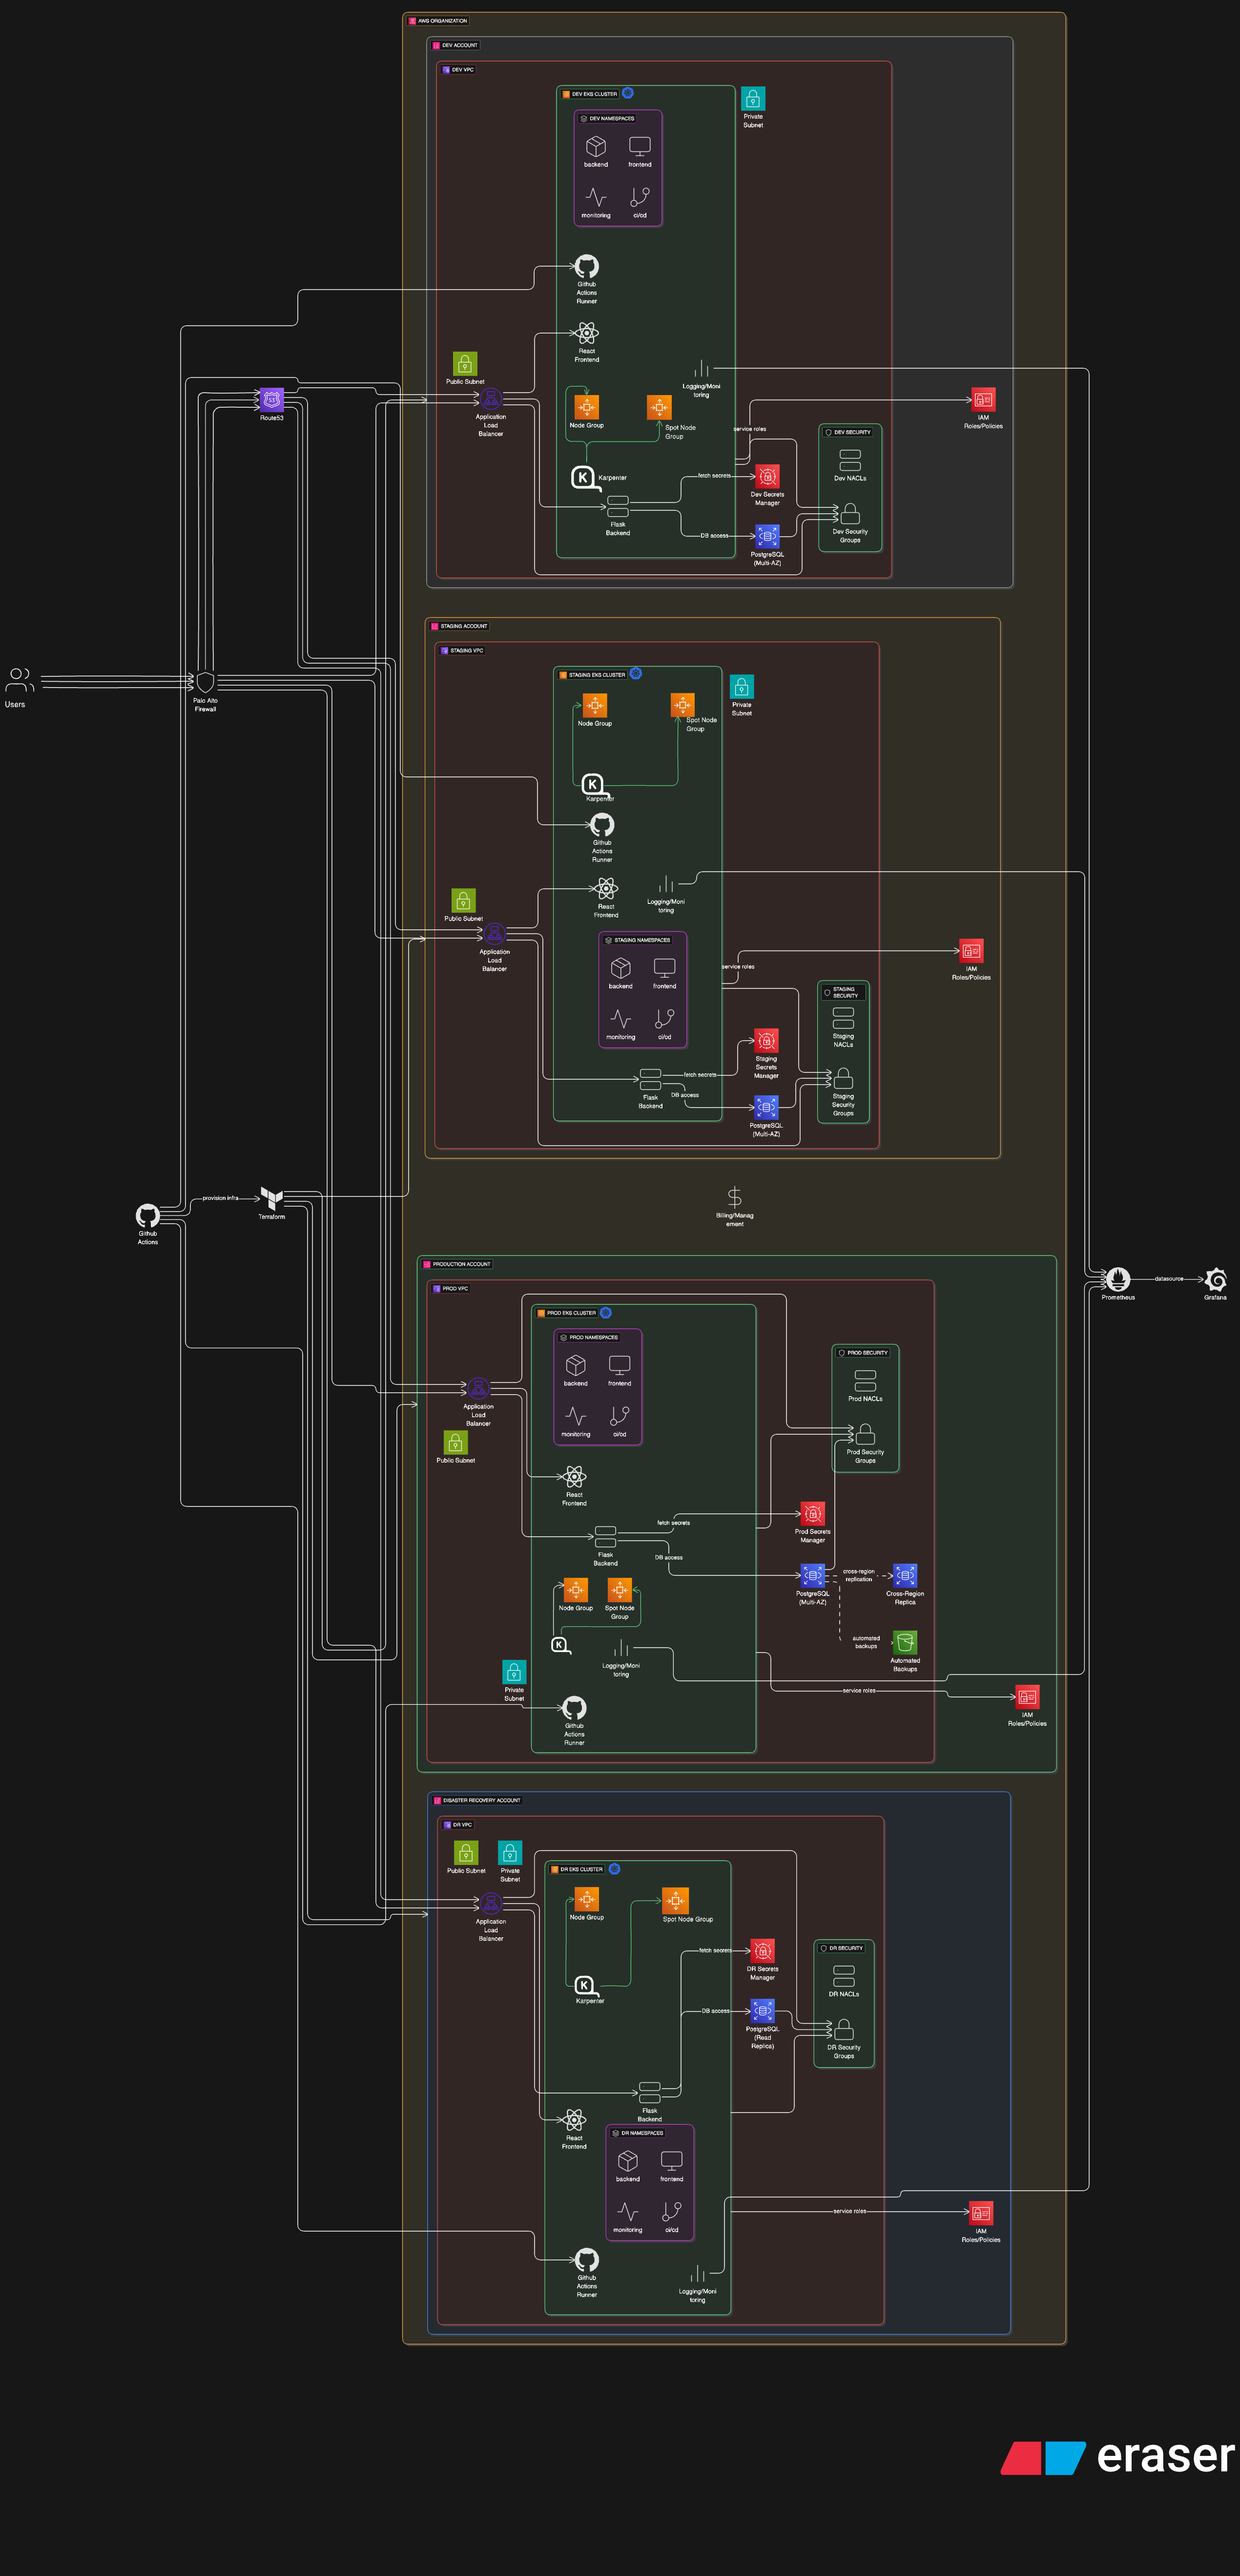
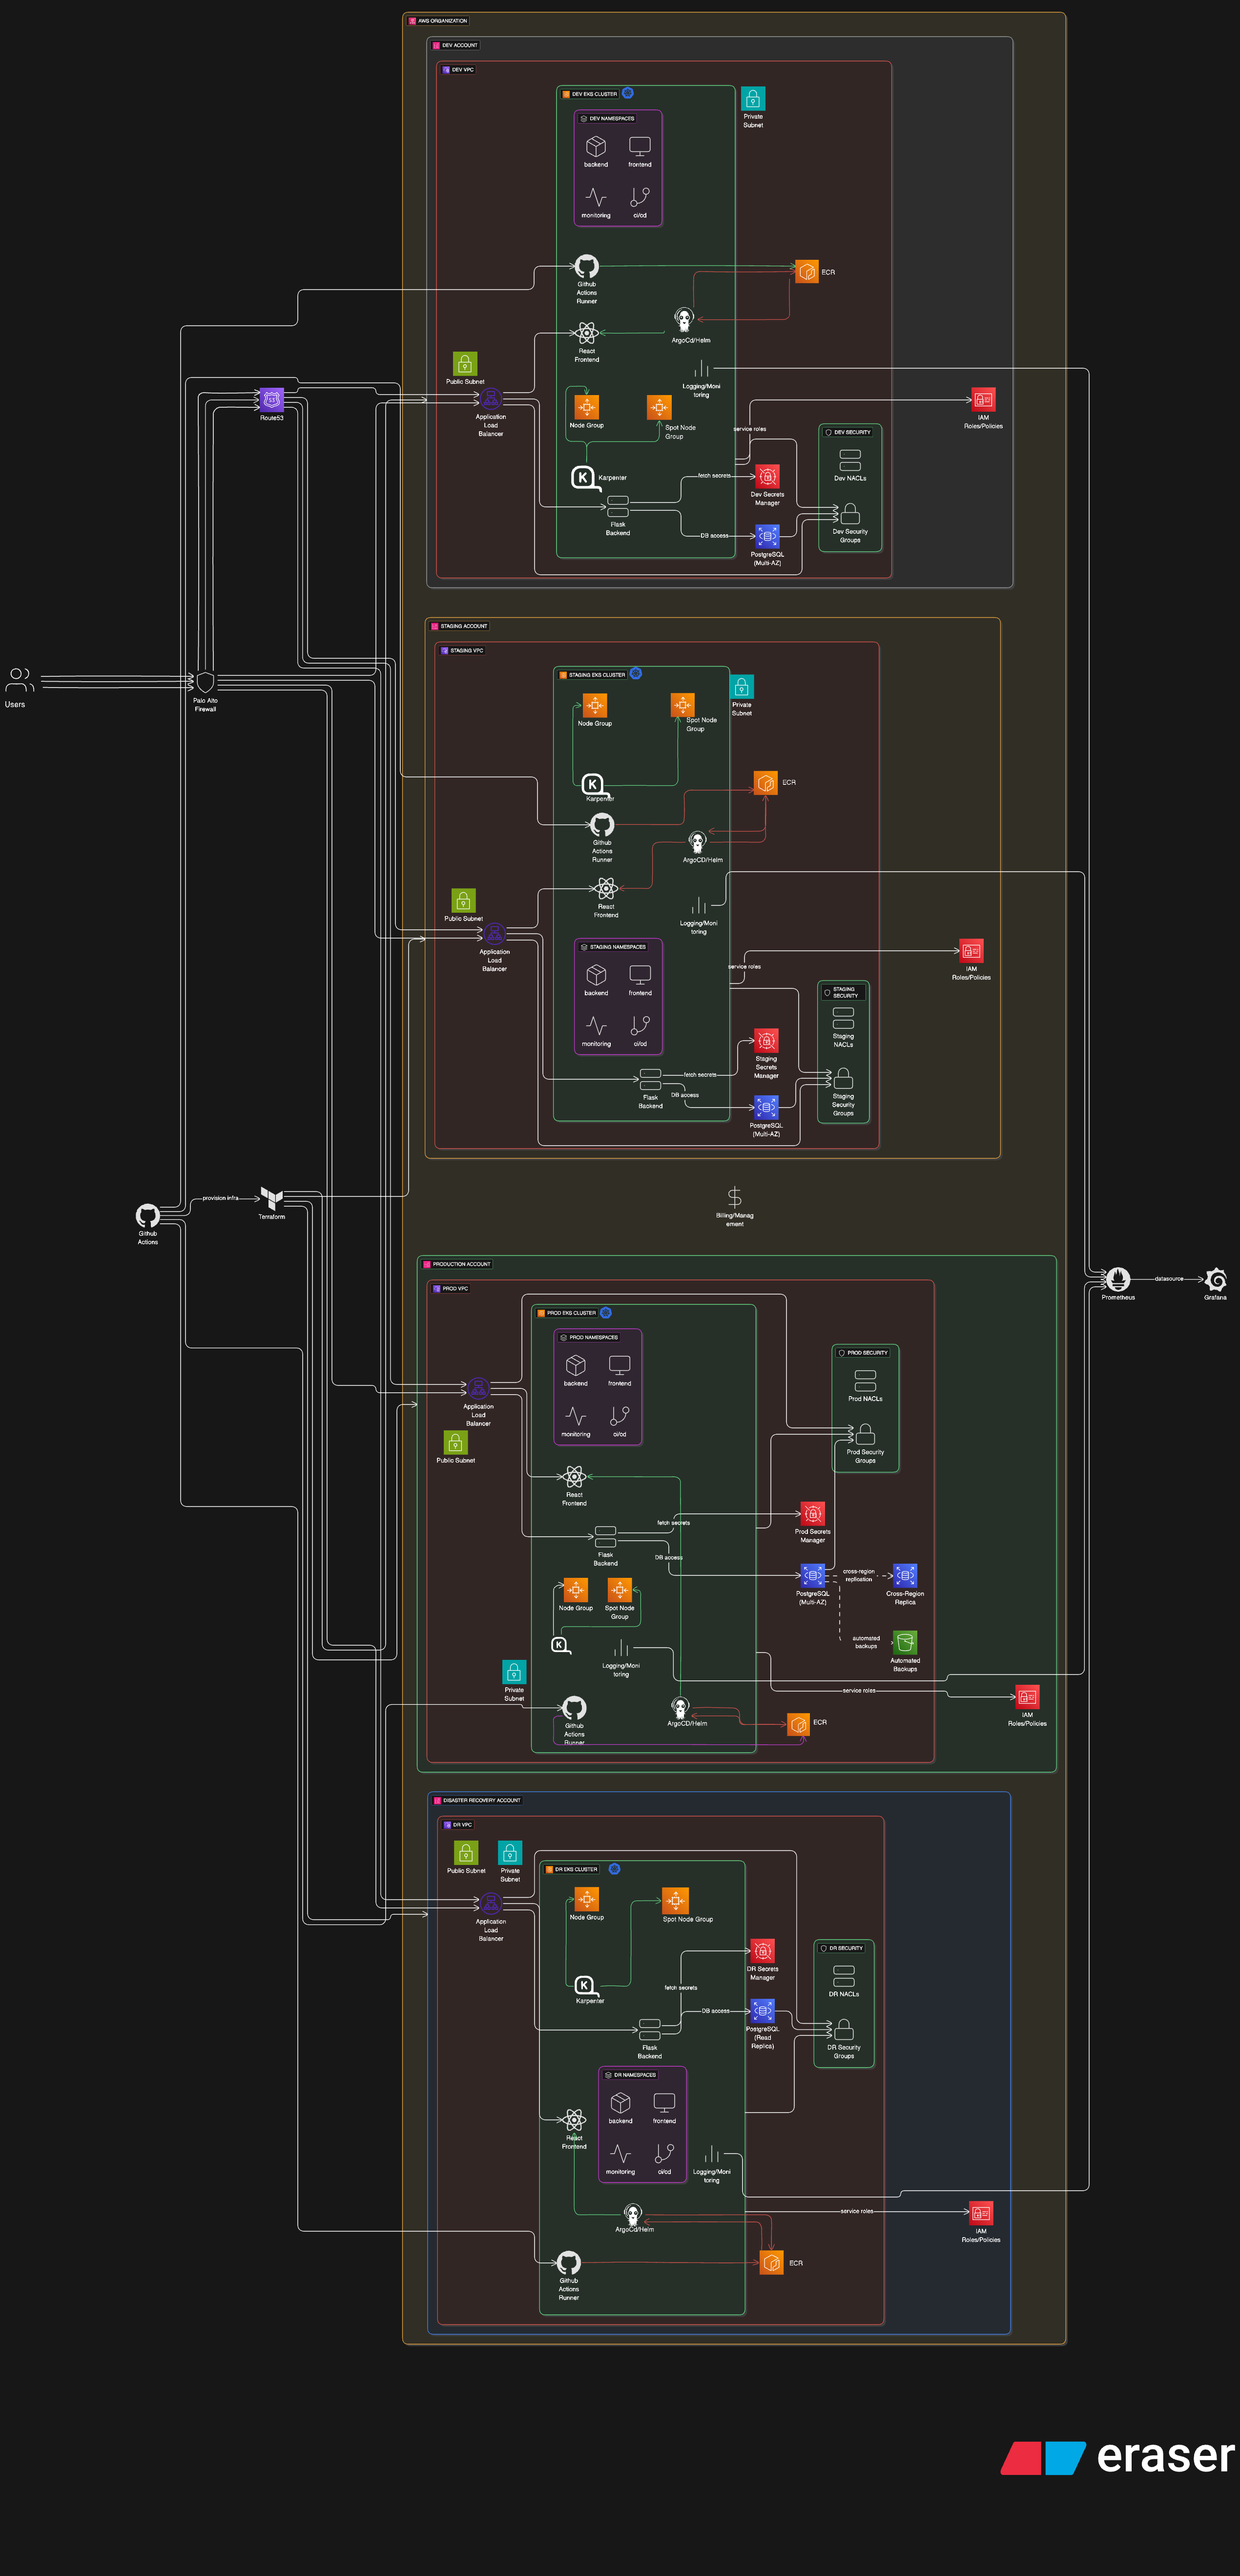
Added cloud architecture diagram for Innovate Inc.

diff --git a/README.md b/README.md
@@ -1,2 +1,87 @@
 # Innovate Inc Proposed Cloud Architecture
 
+1) The front door: users → DNS → WAF/Edge → Public ALB
+
+A customer types app.yourco.com.
+Route 53 answers with where to go. (Optionally) CloudFront + WAF sit in front to cache static bits and swat away junk traffic and obvious attacks.
+
+Traffic lands on a public ALB in the target environment (dev/test/stage/prod). The ALB terminates TLS with ACM certs and routes by host/path to the right app.
+
+Why this exists: a clean, global entry that’s secure, fast, and easy to route per environment and per service.
+
+2) Inside the fence: per-environment VPCs
+
+Each environment has its own VPC with public subnets (for ALBs/NAT) and private subnets (for EKS nodes, databases, etc.). An Internet Gateway handles inbound for public things; NAT Gateways allow private workloads to fetch images or talk to SaaS without being exposed.
+
+Why this exists: hard isolation (blast radius control) and predictable networking/Security Groups per env.
+
+3) The app neighborhood: EKS cluster
+
+In each VPC sits an EKS cluster:
+A tiny managed node group (on-demand x86) runs the “plumbing”: the AWS Load Balancer Controller, CSI drivers, Argo CD/Flux, Kyverno, metrics agents, etc. Karpenter is your “smart landlord” for app capacity. When pods can’t schedule, it spins up the best-fit EC2 nodes on the fly:
+
+You’ve got NodePools for amd64 (x86) and arm64 (Graviton). You can use Spot for price/perf or On-Demand for critical workloads.
+
+It listens to EventBridge → SQS for spot interruption warnings and gracefully replaces nodes. Consolidation and expiration keep nodes right-sized and fresh.
+
+Why this exists: fast scale, cheaper nodes (hello Graviton + Spot), and zero YAML fiddling for developers.
+
+4) Traffic inside the cluster: Ingress → Service → Pods
+
+The AWS Load Balancer Controller creates ALBs from Kubernetes Ingress objects. Requests go ALB → Ingress → Service → your pods. If you also run an internal ALB, that’s for backstage UIs or service-to-service traffic that shouldn’t be public.
+
+Why this exists: simple L7 routing and TLS offload with native AWS bits your team already knows.
+
+5) State and messages: the data cul-de-sac
+
+Your apps talk to:
+- RDS/Aurora (Postgres in private subnets for transactional data.
+- ElastiCache/Redis for hot keys, sessions, rate limits, low-latency reads.
+- S3 buckets for uploads, artifacts, and backups (with lifecycle rules).
+- OpenSearch (or Loki/CloudWatch Logs) for log search and ops forensics.
+
+Access from pods is granted via IRSA/Pod Identity (role per service account), not static keys.
+
+Why this exists: clean separation of concerns—fast reads in cache, durable data in RDS, cheap storage in S3, resilient async with queues.
+
+6) How code and Infra gets here: CI/CD & GitOps
+
+Infra is done with Terraform running through a github actions pipeline.
+
+Your CI (GitHub Actions) builds, tests, scans, and pushes images to ECR.
+
+Argo CD Git (Helm) and syncs clusters. Rollbacks are just “git revert.”
+
+Why this exists: predictable, auditable releases; no humans hand-applying manifests on Fridays.
+
+7) Seeing and knowing: observability
+
+Logs: agents (Loki) ship to Grafana.
+
+Metrics: Prometheus scrapes; Grafana dashboards; autoscaling signals come from metrics or Karpenter’s bin-packing view.
+
+Traces: OTEL/X-Ray/Tempo/Datadog (depending on your stack).
+
+Alarms: CloudWatch + SNS (or PagerDuty) wake the right humans.
+
+Why this exists: you can’t run what you can’t see. This is your early-warning system and your root-cause flashlight.
+
+8) Guardrails: security & access
+
+- Palo Alto Firewall serves as the main gatekeeper, scrutinizing all incoming traffic
+- Security Groups fence off who can talk to whom.
+- IAM + IRSA scope AWS permissions to each workload.
+- Secrets Manager/SSM store secrets; no secrets in images or Git.
+- SSM Session Manager replaces old SSH bastions—auditable, ephemeral access.
+
+Why this exists: default-deny posture without crushing developer velocity.
+
+9) Insurance: backups & Disaster Recover
+
+- Automated DB snapshots and/or AWS Backup policies for RDS.
+- Real time replication of database to secondary region
+- Cross-AZ by default; cross-region where RTO/RPO demand it.
+- S3 versioning/lifecycle to keep costs sane and recovery reliable.
+- Disaster Recovery Account and Cluster for Failover Scenarios
+
+Why this exists: stuff happens. You want restore buttons that actually work.
